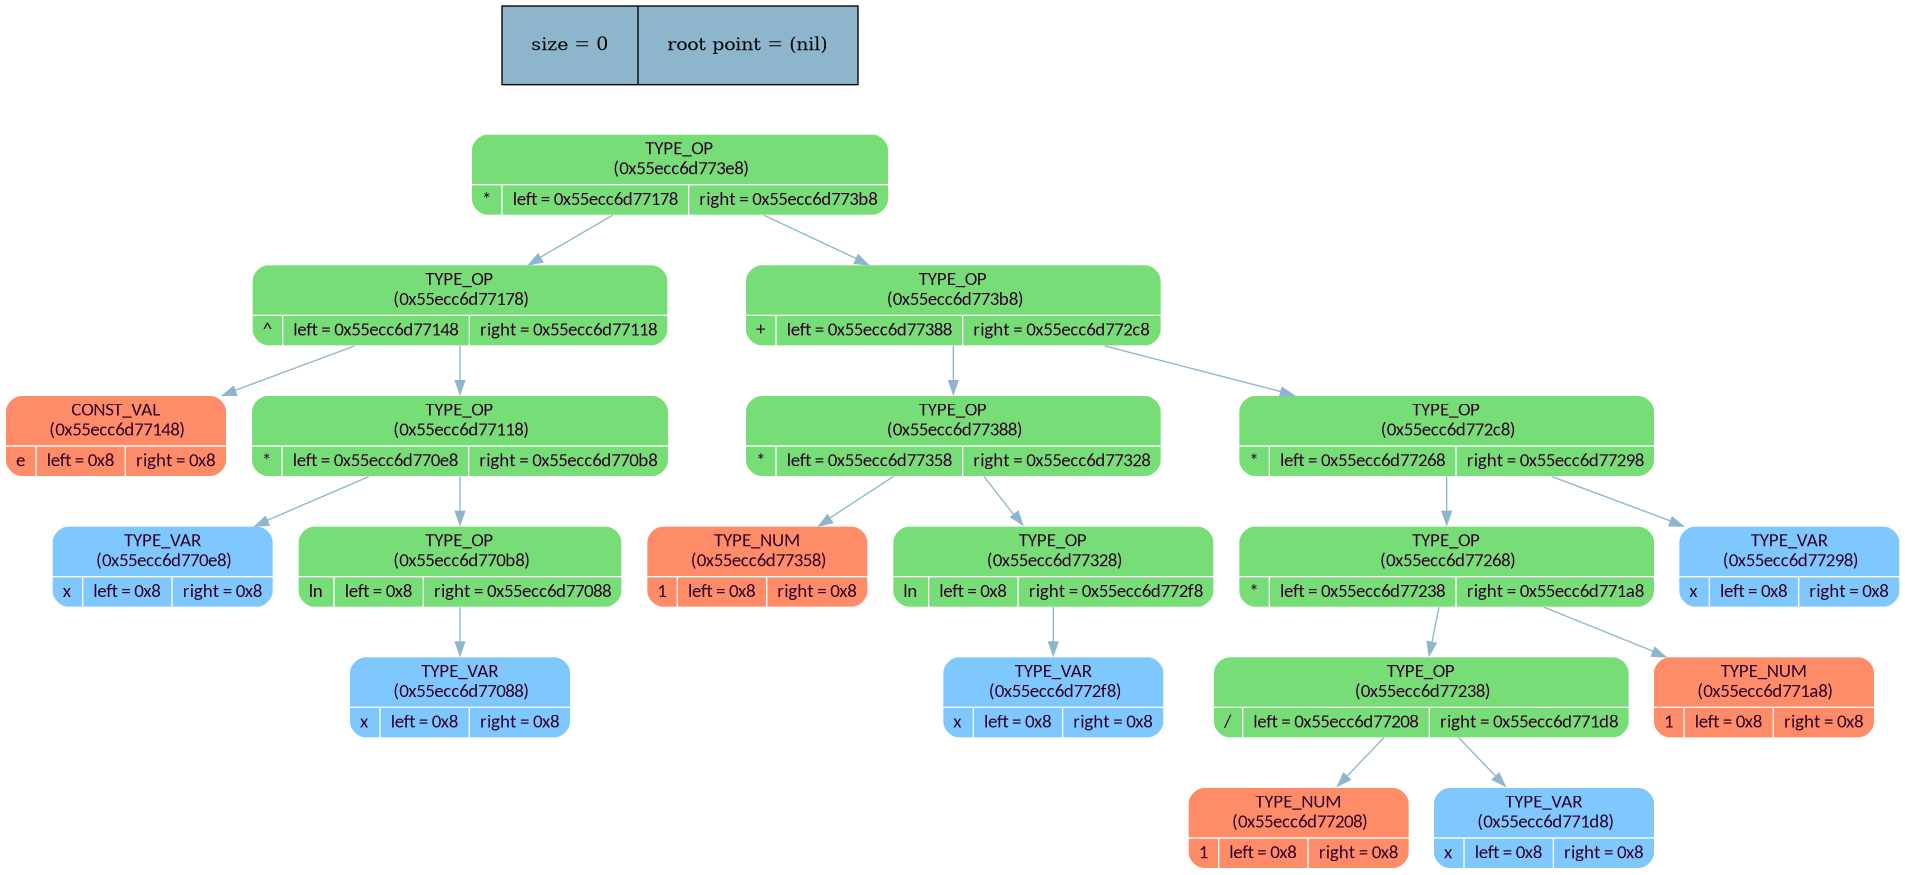
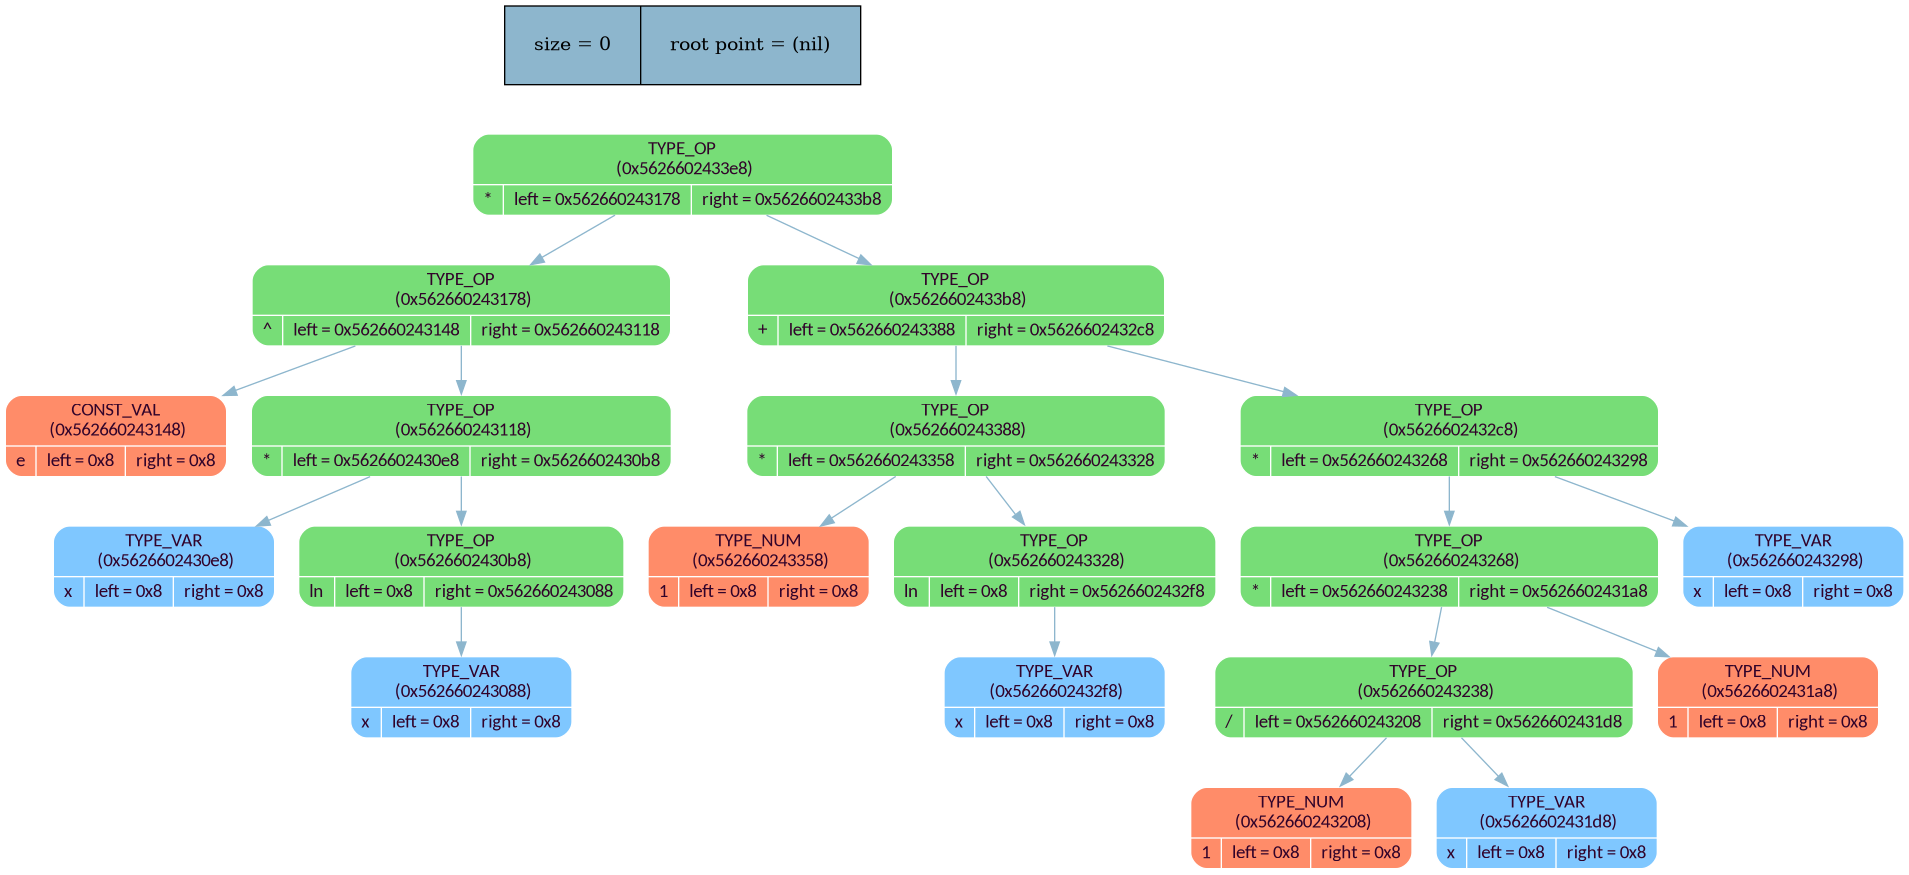
minor update

diff --git a/logs/log_file.html b/logs/log_file.html
@@ -4,53 +4,53 @@
 
 <font color = #8DB6CD size=6>Tree was successfully created</font>
 
-<font color = #7FC7FF size=5>Created TYPE_VAR node: address (0x55ecc6d76878) | var    (x)</font>
-<font color = #7FC7FF size=5>Created TYPE_VAR node: address (0x55ecc6d768a8) | var    (x)</font>
-<font color = #77DD77 size=5>Created TYPE_OP  node: address (0x55ecc6d768d8) | op_code (94)</font>
-<font color = #6018CF size=5>Created edge: parent address (0x55ecc6d768d8)   | op_code (94); left  (0x55ecc6d76878)  | op_code (120)</font>
-<font color = #6018CF size=5>Created edge: parent address (0x55ecc6d768d8)   | op_code (94); right  (0x55ecc6d768a8) | op_code (120)</font>
+<font color = #7FC7FF size=5>Created TYPE_VAR node: address (0x562660242878) | var    (x)</font>
+<font color = #7FC7FF size=5>Created TYPE_VAR node: address (0x5626602428a8) | var    (x)</font>
+<font color = #77DD77 size=5>Created TYPE_OP  node: address (0x5626602428d8) | op_code (94)</font>
+<font color = #6018CF size=5>Created edge: parent address (0x5626602428d8)   | op_code (94); left  (0x562660242878)  | op_code (120)</font>
+<font color = #6018CF size=5>Created edge: parent address (0x5626602428d8)   | op_code (94); right  (0x5626602428a8) | op_code (120)</font>
 
 
 <font color = #8DB6CD size = 6>Here is the print of your tree</font>
 
 <img src = ../logs/log_pics/tree_d1.png width = 800 height = 350>
-<font color = #7FC7FF size=5>Created TYPE_VAR node: address (0x55ecc6d77088) | var    (x)</font>
-<font color = #77DD77 size=5>Created TYPE_OP  node: address (0x55ecc6d770b8) | op_code (52)</font>
-<font color = #6018CF size=5>Created edge: parent address (0x55ecc6d770b8)   | op_code (52); right  (0x55ecc6d77088) | op_code (120)</font>
-<font color = #7FC7FF size=5>Created TYPE_VAR node: address (0x55ecc6d770e8) | var    (x)</font>
-<font color = #77DD77 size=5>Created TYPE_OP  node: address (0x55ecc6d77118) | op_code (42)</font>
-<font color = #6018CF size=5>Created edge: parent address (0x55ecc6d77118)   | op_code (42); left  (0x55ecc6d770e8)  | op_code (120)</font>
-<font color = #6018CF size=5>Created edge: parent address (0x55ecc6d77118)   | op_code (42); right  (0x55ecc6d770b8) | op_code (52)</font>
-<font color = #77DD77 size=5>Created TYPE_OP  node: address (0x55ecc6d77148) | op_code (101)</font>
-<font color = #77DD77 size=5>Created TYPE_OP  node: address (0x55ecc6d77178) | op_code (94)</font>
-<font color = #6018CF size=5>Created edge: parent address (0x55ecc6d77178)   | op_code (94); left  (0x55ecc6d77148)  | op_code (101)</font>
-<font color = #6018CF size=5>Created edge: parent address (0x55ecc6d77178)   | op_code (94); right  (0x55ecc6d77118) | op_code (42)</font>
-<font color = #FF8C69 size=5>Created TYPE_NUM node: address (0x55ecc6d771a8) | value  (1)</font>
-<font color = #7FC7FF size=5>Created TYPE_VAR node: address (0x55ecc6d771d8) | var    (x)</font>
-<font color = #FF8C69 size=5>Created TYPE_NUM node: address (0x55ecc6d77208) | value  (1)</font>
-<font color = #77DD77 size=5>Created TYPE_OP  node: address (0x55ecc6d77238) | op_code (47)</font>
-<font color = #6018CF size=5>Created edge: parent address (0x55ecc6d77238)   | op_code (47); left  (0x55ecc6d77208)  | op_code (10)</font>
-<font color = #6018CF size=5>Created edge: parent address (0x55ecc6d77238)   | op_code (47); right  (0x55ecc6d771d8) | op_code (120)</font>
-<font color = #77DD77 size=5>Created TYPE_OP  node: address (0x55ecc6d77268) | op_code (42)</font>
-<font color = #6018CF size=5>Created edge: parent address (0x55ecc6d77268)   | op_code (42); left  (0x55ecc6d77238)  | op_code (47)</font>
-<font color = #6018CF size=5>Created edge: parent address (0x55ecc6d77268)   | op_code (42); right  (0x55ecc6d771a8) | op_code (10)</font>
-<font color = #7FC7FF size=5>Created TYPE_VAR node: address (0x55ecc6d77298) | var    (x)</font>
-<font color = #77DD77 size=5>Created TYPE_OP  node: address (0x55ecc6d772c8) | op_code (42)</font>
-<font color = #6018CF size=5>Created edge: parent address (0x55ecc6d772c8)   | op_code (42); left  (0x55ecc6d77268)  | op_code (42)</font>
-<font color = #6018CF size=5>Created edge: parent address (0x55ecc6d772c8)   | op_code (42); right  (0x55ecc6d77298) | op_code (120)</font>
-<font color = #7FC7FF size=5>Created TYPE_VAR node: address (0x55ecc6d772f8) | var    (x)</font>
-<font color = #77DD77 size=5>Created TYPE_OP  node: address (0x55ecc6d77328) | op_code (52)</font>
-<font color = #6018CF size=5>Created edge: parent address (0x55ecc6d77328)   | op_code (52); right  (0x55ecc6d772f8) | op_code (120)</font>
-<font color = #FF8C69 size=5>Created TYPE_NUM node: address (0x55ecc6d77358) | value  (1)</font>
-<font color = #77DD77 size=5>Created TYPE_OP  node: address (0x55ecc6d77388) | op_code (42)</font>
-<font color = #6018CF size=5>Created edge: parent address (0x55ecc6d77388)   | op_code (42); left  (0x55ecc6d77358)  | op_code (10)</font>
-<font color = #6018CF size=5>Created edge: parent address (0x55ecc6d77388)   | op_code (42); right  (0x55ecc6d77328) | op_code (52)</font>
-<font color = #77DD77 size=5>Created TYPE_OP  node: address (0x55ecc6d773b8) | op_code (43)</font>
-<font color = #6018CF size=5>Created edge: parent address (0x55ecc6d773b8)   | op_code (43); left  (0x55ecc6d77388)  | op_code (42)</font>
-<font color = #6018CF size=5>Created edge: parent address (0x55ecc6d773b8)   | op_code (43); right  (0x55ecc6d772c8) | op_code (42)</font>
-<font color = #77DD77 size=5>Created TYPE_OP  node: address (0x55ecc6d773e8) | op_code (42)</font>
-<font color = #6018CF size=5>Created edge: parent address (0x55ecc6d773e8)   | op_code (42); left  (0x55ecc6d77178)  | op_code (94)</font>
-<font color = #6018CF size=5>Created edge: parent address (0x55ecc6d773e8)   | op_code (42); right  (0x55ecc6d773b8) | op_code (43)</font>
+<font color = #7FC7FF size=5>Created TYPE_VAR node: address (0x562660243088) | var    (x)</font>
+<font color = #77DD77 size=5>Created TYPE_OP  node: address (0x5626602430b8) | op_code (52)</font>
+<font color = #6018CF size=5>Created edge: parent address (0x5626602430b8)   | op_code (52); right  (0x562660243088) | op_code (120)</font>
+<font color = #7FC7FF size=5>Created TYPE_VAR node: address (0x5626602430e8) | var    (x)</font>
+<font color = #77DD77 size=5>Created TYPE_OP  node: address (0x562660243118) | op_code (42)</font>
+<font color = #6018CF size=5>Created edge: parent address (0x562660243118)   | op_code (42); left  (0x5626602430e8)  | op_code (120)</font>
+<font color = #6018CF size=5>Created edge: parent address (0x562660243118)   | op_code (42); right  (0x5626602430b8) | op_code (52)</font>
+<font color = #77DD77 size=5>Created TYPE_OP  node: address (0x562660243148) | op_code (101)</font>
+<font color = #77DD77 size=5>Created TYPE_OP  node: address (0x562660243178) | op_code (94)</font>
+<font color = #6018CF size=5>Created edge: parent address (0x562660243178)   | op_code (94); left  (0x562660243148)  | op_code (101)</font>
+<font color = #6018CF size=5>Created edge: parent address (0x562660243178)   | op_code (94); right  (0x562660243118) | op_code (42)</font>
+<font color = #FF8C69 size=5>Created TYPE_NUM node: address (0x5626602431a8) | value  (1)</font>
+<font color = #7FC7FF size=5>Created TYPE_VAR node: address (0x5626602431d8) | var    (x)</font>
+<font color = #FF8C69 size=5>Created TYPE_NUM node: address (0x562660243208) | value  (1)</font>
+<font color = #77DD77 size=5>Created TYPE_OP  node: address (0x562660243238) | op_code (47)</font>
+<font color = #6018CF size=5>Created edge: parent address (0x562660243238)   | op_code (47); left  (0x562660243208)  | op_code (10)</font>
+<font color = #6018CF size=5>Created edge: parent address (0x562660243238)   | op_code (47); right  (0x5626602431d8) | op_code (120)</font>
+<font color = #77DD77 size=5>Created TYPE_OP  node: address (0x562660243268) | op_code (42)</font>
+<font color = #6018CF size=5>Created edge: parent address (0x562660243268)   | op_code (42); left  (0x562660243238)  | op_code (47)</font>
+<font color = #6018CF size=5>Created edge: parent address (0x562660243268)   | op_code (42); right  (0x5626602431a8) | op_code (10)</font>
+<font color = #7FC7FF size=5>Created TYPE_VAR node: address (0x562660243298) | var    (x)</font>
+<font color = #77DD77 size=5>Created TYPE_OP  node: address (0x5626602432c8) | op_code (42)</font>
+<font color = #6018CF size=5>Created edge: parent address (0x5626602432c8)   | op_code (42); left  (0x562660243268)  | op_code (42)</font>
+<font color = #6018CF size=5>Created edge: parent address (0x5626602432c8)   | op_code (42); right  (0x562660243298) | op_code (120)</font>
+<font color = #7FC7FF size=5>Created TYPE_VAR node: address (0x5626602432f8) | var    (x)</font>
+<font color = #77DD77 size=5>Created TYPE_OP  node: address (0x562660243328) | op_code (52)</font>
+<font color = #6018CF size=5>Created edge: parent address (0x562660243328)   | op_code (52); right  (0x5626602432f8) | op_code (120)</font>
+<font color = #FF8C69 size=5>Created TYPE_NUM node: address (0x562660243358) | value  (1)</font>
+<font color = #77DD77 size=5>Created TYPE_OP  node: address (0x562660243388) | op_code (42)</font>
+<font color = #6018CF size=5>Created edge: parent address (0x562660243388)   | op_code (42); left  (0x562660243358)  | op_code (10)</font>
+<font color = #6018CF size=5>Created edge: parent address (0x562660243388)   | op_code (42); right  (0x562660243328) | op_code (52)</font>
+<font color = #77DD77 size=5>Created TYPE_OP  node: address (0x5626602433b8) | op_code (43)</font>
+<font color = #6018CF size=5>Created edge: parent address (0x5626602433b8)   | op_code (43); left  (0x562660243388)  | op_code (42)</font>
+<font color = #6018CF size=5>Created edge: parent address (0x5626602433b8)   | op_code (43); right  (0x5626602432c8) | op_code (42)</font>
+<font color = #77DD77 size=5>Created TYPE_OP  node: address (0x5626602433e8) | op_code (42)</font>
+<font color = #6018CF size=5>Created edge: parent address (0x5626602433e8)   | op_code (42); left  (0x562660243178)  | op_code (94)</font>
+<font color = #6018CF size=5>Created edge: parent address (0x5626602433e8)   | op_code (42); right  (0x5626602433b8) | op_code (43)</font>
 
 
 <font color = #8DB6CD size = 6>Here is the print of your tree</font>
@@ -58,25 +58,25 @@
 <img src = ../logs/log_pics/tree_d2.png width = 800 height = 350>
 
 <font color = #8DB6CD size=6>It is my 1 attempt to simplify in simpl_node
-</font><font color = #7FC7FF size=5>Created TYPE_VAR node: address (0x55ecc6d776a8) | var    (x)</font>
-<font color = #77DD77 size=5>Created TYPE_OP  node: address (0x55ecc6d776d8) | op_code (52)</font>
-<font color = #6018CF size=5>Created edge: parent address (0x55ecc6d776d8)   | op_code (52); right  (0x55ecc6d776a8) | op_code (120)</font>
-<font color = orange size=5>Node was removed: address (0x55ecc6d77358) </font>
-<font color = orange size=5>Node was removed: address (0x55ecc6d772f8) </font>
-<font color = orange size=5>Node was removed: address (0x55ecc6d77328) </font>
-<font color = orange size=5>Node was removed: address (0x55ecc6d77388) </font>
-<font color = #6018CF size=5>Created edge: parent address (0x55ecc6d773b8)   | op_code (43); left  (0x55ecc6d776d8)  | op_code (52)</font>
-<font color = #7FC7FF size=5>Created TYPE_VAR node: address (0x55ecc6d77708) | var    (x)</font>
-<font color = #FF8C69 size=5>Created TYPE_NUM node: address (0x55ecc6d77738) | value  (1)</font>
-<font color = #77DD77 size=5>Created TYPE_OP  node: address (0x55ecc6d77768) | op_code (47)</font>
-<font color = #6018CF size=5>Created edge: parent address (0x55ecc6d77768)   | op_code (47); left  (0x55ecc6d77738)  | op_code (10)</font>
-<font color = #6018CF size=5>Created edge: parent address (0x55ecc6d77768)   | op_code (47); right  (0x55ecc6d77708) | op_code (120)</font>
-<font color = orange size=5>Node was removed: address (0x55ecc6d77208) </font>
-<font color = orange size=5>Node was removed: address (0x55ecc6d771d8) </font>
-<font color = orange size=5>Node was removed: address (0x55ecc6d77238) </font>
-<font color = orange size=5>Node was removed: address (0x55ecc6d771a8) </font>
-<font color = orange size=5>Node was removed: address (0x55ecc6d77268) </font>
-<font color = #6018CF size=5>Created edge: parent address (0x55ecc6d772c8)   | op_code (42); left  (0x55ecc6d77768)  | op_code (47)</font>
+</font><font color = #7FC7FF size=5>Created TYPE_VAR node: address (0x5626602436a8) | var    (x)</font>
+<font color = #77DD77 size=5>Created TYPE_OP  node: address (0x5626602436d8) | op_code (52)</font>
+<font color = #6018CF size=5>Created edge: parent address (0x5626602436d8)   | op_code (52); right  (0x5626602436a8) | op_code (120)</font>
+<font color = orange size=5>Node was removed: address (0x562660243358) </font>
+<font color = orange size=5>Node was removed: address (0x5626602432f8) </font>
+<font color = orange size=5>Node was removed: address (0x562660243328) </font>
+<font color = orange size=5>Node was removed: address (0x562660243388) </font>
+<font color = #6018CF size=5>Created edge: parent address (0x5626602433b8)   | op_code (43); left  (0x5626602436d8)  | op_code (52)</font>
+<font color = #7FC7FF size=5>Created TYPE_VAR node: address (0x562660243708) | var    (x)</font>
+<font color = #FF8C69 size=5>Created TYPE_NUM node: address (0x562660243738) | value  (1)</font>
+<font color = #77DD77 size=5>Created TYPE_OP  node: address (0x562660243768) | op_code (47)</font>
+<font color = #6018CF size=5>Created edge: parent address (0x562660243768)   | op_code (47); left  (0x562660243738)  | op_code (10)</font>
+<font color = #6018CF size=5>Created edge: parent address (0x562660243768)   | op_code (47); right  (0x562660243708) | op_code (120)</font>
+<font color = orange size=5>Node was removed: address (0x562660243208) </font>
+<font color = orange size=5>Node was removed: address (0x5626602431d8) </font>
+<font color = orange size=5>Node was removed: address (0x562660243238) </font>
+<font color = orange size=5>Node was removed: address (0x5626602431a8) </font>
+<font color = orange size=5>Node was removed: address (0x562660243268) </font>
+<font color = #6018CF size=5>Created edge: parent address (0x5626602432c8)   | op_code (42); left  (0x562660243768)  | op_code (47)</font>
 
 
 <font color = #8DB6CD size = 6>Here is the print of your tree</font>
@@ -94,21 +94,21 @@
 <font color = #8DB6CD size = 6>Here is the print of your tree</font>
 
 <img src = ../logs/log_pics/tree_d5.png width = 800 height = 350>
-<font color = orange size=5>Node was removed: address (0x55ecc6d76878) </font>
-<font color = orange size=5>Node was removed: address (0x55ecc6d768a8) </font>
-<font color = orange size=5>Node was removed: address (0x55ecc6d768d8) </font>
-<font color = orange size=5>Node was removed: address (0x55ecc6d77148) </font>
-<font color = orange size=5>Node was removed: address (0x55ecc6d770e8) </font>
-<font color = orange size=5>Node was removed: address (0x55ecc6d77088) </font>
-<font color = orange size=5>Node was removed: address (0x55ecc6d770b8) </font>
-<font color = orange size=5>Node was removed: address (0x55ecc6d77118) </font>
-<font color = orange size=5>Node was removed: address (0x55ecc6d77178) </font>
-<font color = orange size=5>Node was removed: address (0x55ecc6d776a8) </font>
-<font color = orange size=5>Node was removed: address (0x55ecc6d776d8) </font>
-<font color = orange size=5>Node was removed: address (0x55ecc6d77738) </font>
-<font color = orange size=5>Node was removed: address (0x55ecc6d77708) </font>
-<font color = orange size=5>Node was removed: address (0x55ecc6d77768) </font>
-<font color = orange size=5>Node was removed: address (0x55ecc6d77298) </font>
-<font color = orange size=5>Node was removed: address (0x55ecc6d772c8) </font>
-<font color = orange size=5>Node was removed: address (0x55ecc6d773b8) </font>
-<font color = orange size=5>Node was removed: address (0x55ecc6d773e8) </font>
+<font color = orange size=5>Node was removed: address (0x562660242878) </font>
+<font color = orange size=5>Node was removed: address (0x5626602428a8) </font>
+<font color = orange size=5>Node was removed: address (0x5626602428d8) </font>
+<font color = orange size=5>Node was removed: address (0x562660243148) </font>
+<font color = orange size=5>Node was removed: address (0x5626602430e8) </font>
+<font color = orange size=5>Node was removed: address (0x562660243088) </font>
+<font color = orange size=5>Node was removed: address (0x5626602430b8) </font>
+<font color = orange size=5>Node was removed: address (0x562660243118) </font>
+<font color = orange size=5>Node was removed: address (0x562660243178) </font>
+<font color = orange size=5>Node was removed: address (0x5626602436a8) </font>
+<font color = orange size=5>Node was removed: address (0x5626602436d8) </font>
+<font color = orange size=5>Node was removed: address (0x562660243738) </font>
+<font color = orange size=5>Node was removed: address (0x562660243708) </font>
+<font color = orange size=5>Node was removed: address (0x562660243768) </font>
+<font color = orange size=5>Node was removed: address (0x562660243298) </font>
+<font color = orange size=5>Node was removed: address (0x5626602432c8) </font>
+<font color = orange size=5>Node was removed: address (0x5626602433b8) </font>
+<font color = orange size=5>Node was removed: address (0x5626602433e8) </font>

diff --git a/tree/tree_func.cpp b/tree/tree_func.cpp
@@ -141,27 +141,6 @@ tree_node_t* tree_search (tree_node_t* tree_root, tree_node_t* node)
 
 //------------------------------------------------------------------------------------------------------------------------------------------------------------------------------------------------------------
 
-// tree_node_t* tree_remove  (tree_node_t* node)
-// {
-//     MY_ASSERT (node != NULL);
-//     tree_node_t* ret_node = tree_search (pine->root, node);
-//     MY_ASSERT (ret_node != NULL);
-//
-//     if (ret_node->right == node)
-//     {
-//         free (ret_node->right);
-//         ret_node->right = NULL;
-//     }
-//     else if (ret_node->left == node)
-//     {
-//         free (ret_node->left);
-//         ret_node->left = NULL;
-//     }
-//     pine->size--;
-//     write_tree_logs (T_NODE_SUC_DELETED, node);
-//     return node;
-// }
-
 tree_node_t* tree_delete (tree_node_t* tree_node)
 {
     if (tree_node == NULL) return NULL;
@@ -176,10 +155,6 @@ tree_node_t* tree_delete (tree_node_t* tree_node)
     free (tree_node);
 
     write_tree_logs (T_NODE_SUC_DELETED, tree_node);
-    // if (tree_node == pine->root)
-    // {
-    //     write_extra_logs (T_TREE_WAS_CLEARED);
-    // }
 
     return NULL;
 }

diff --git a/tree/rec_descent.cpp b/tree/rec_descent.cpp
@@ -15,7 +15,7 @@ tree_node_t* get_end (const char* buffer)
 {
     tree_node_t* tree_node = get_sign (buffer);
 
-    if (buffer[pos_in_file++] != '\r' || buffer[pos_in_file++] != '\n') syntax_error (S_UNREC_SYNTAX_ERROR, buffer, CUR_POS_IN_PROG);
+    if (buffer[pos_in_file] != '\r' && buffer[pos_in_file] != '\n') syntax_error (S_UNREC_SYNTAX_ERROR, buffer, CUR_POS_IN_PROG);
     return tree_node;
 }
 
